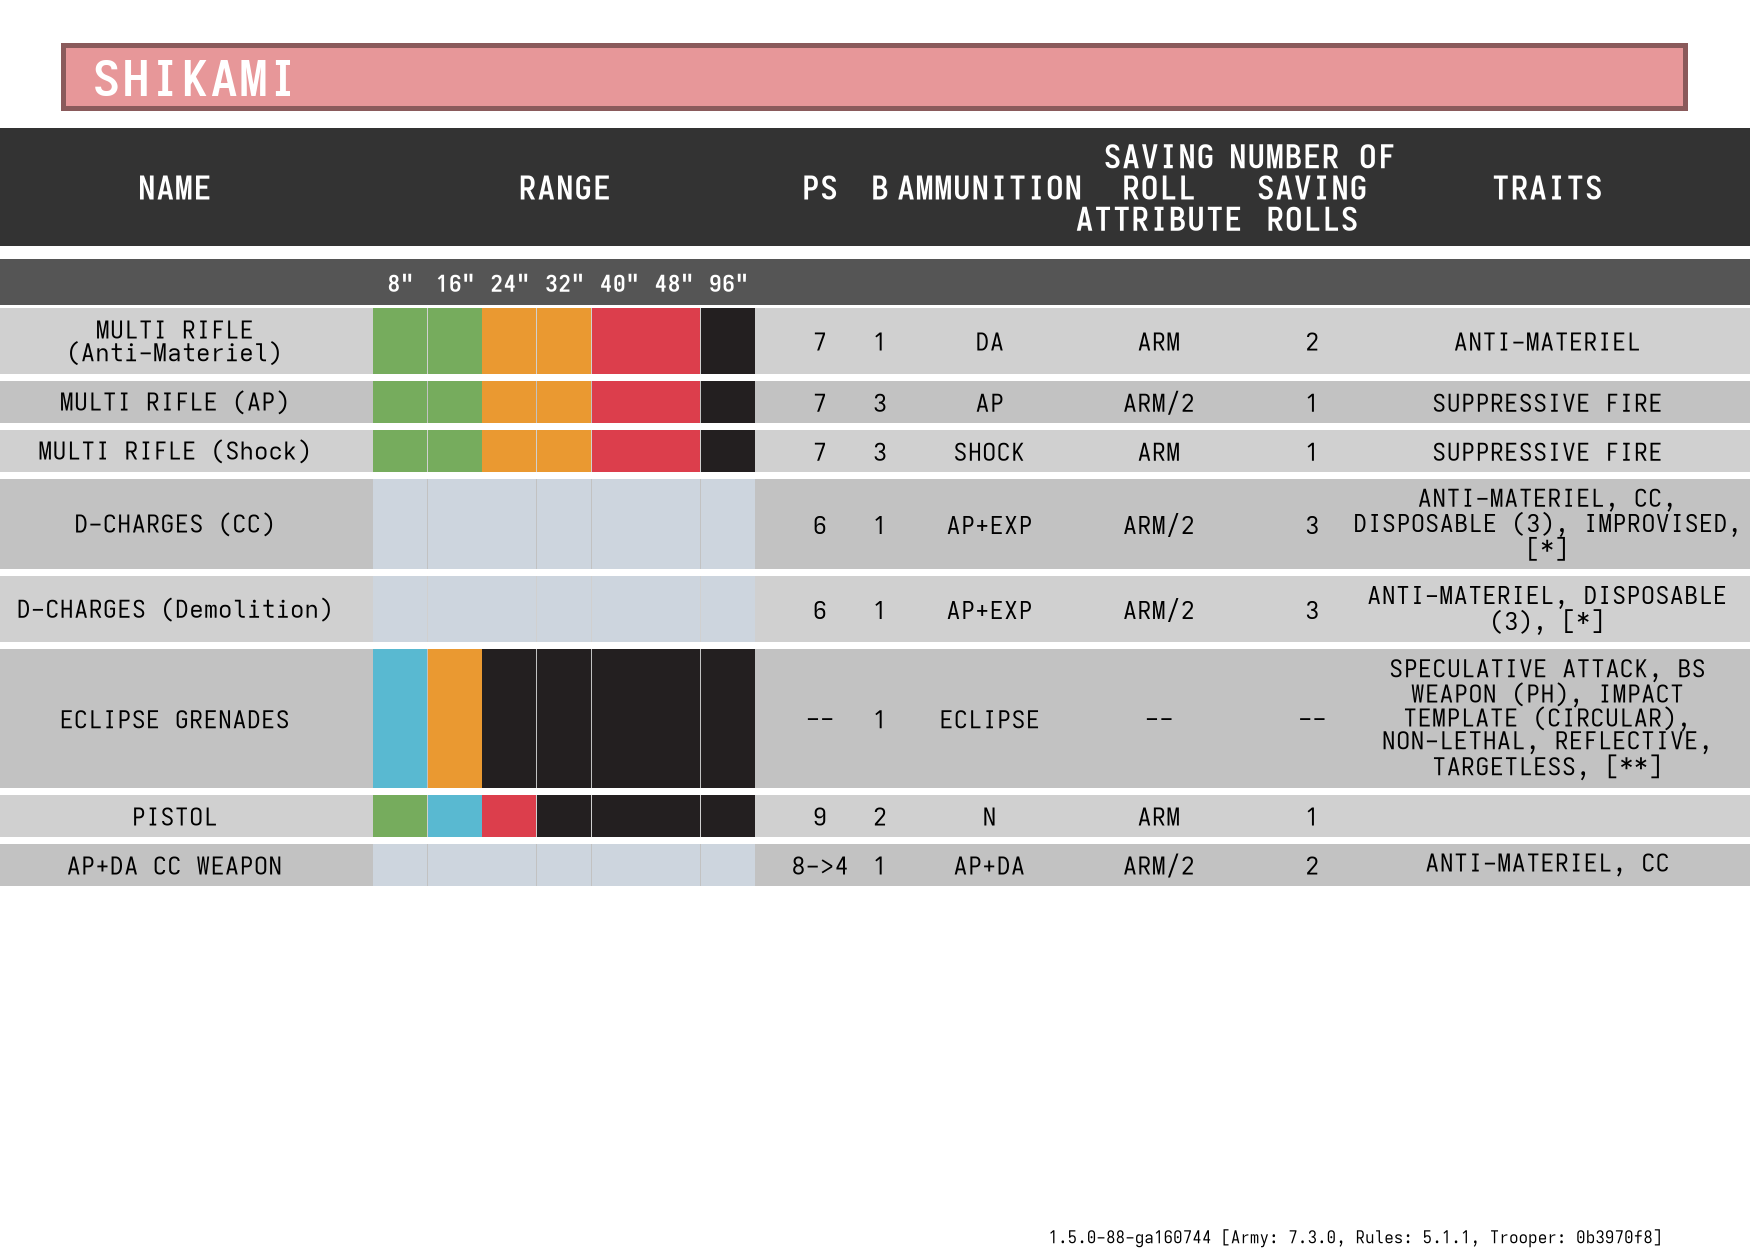
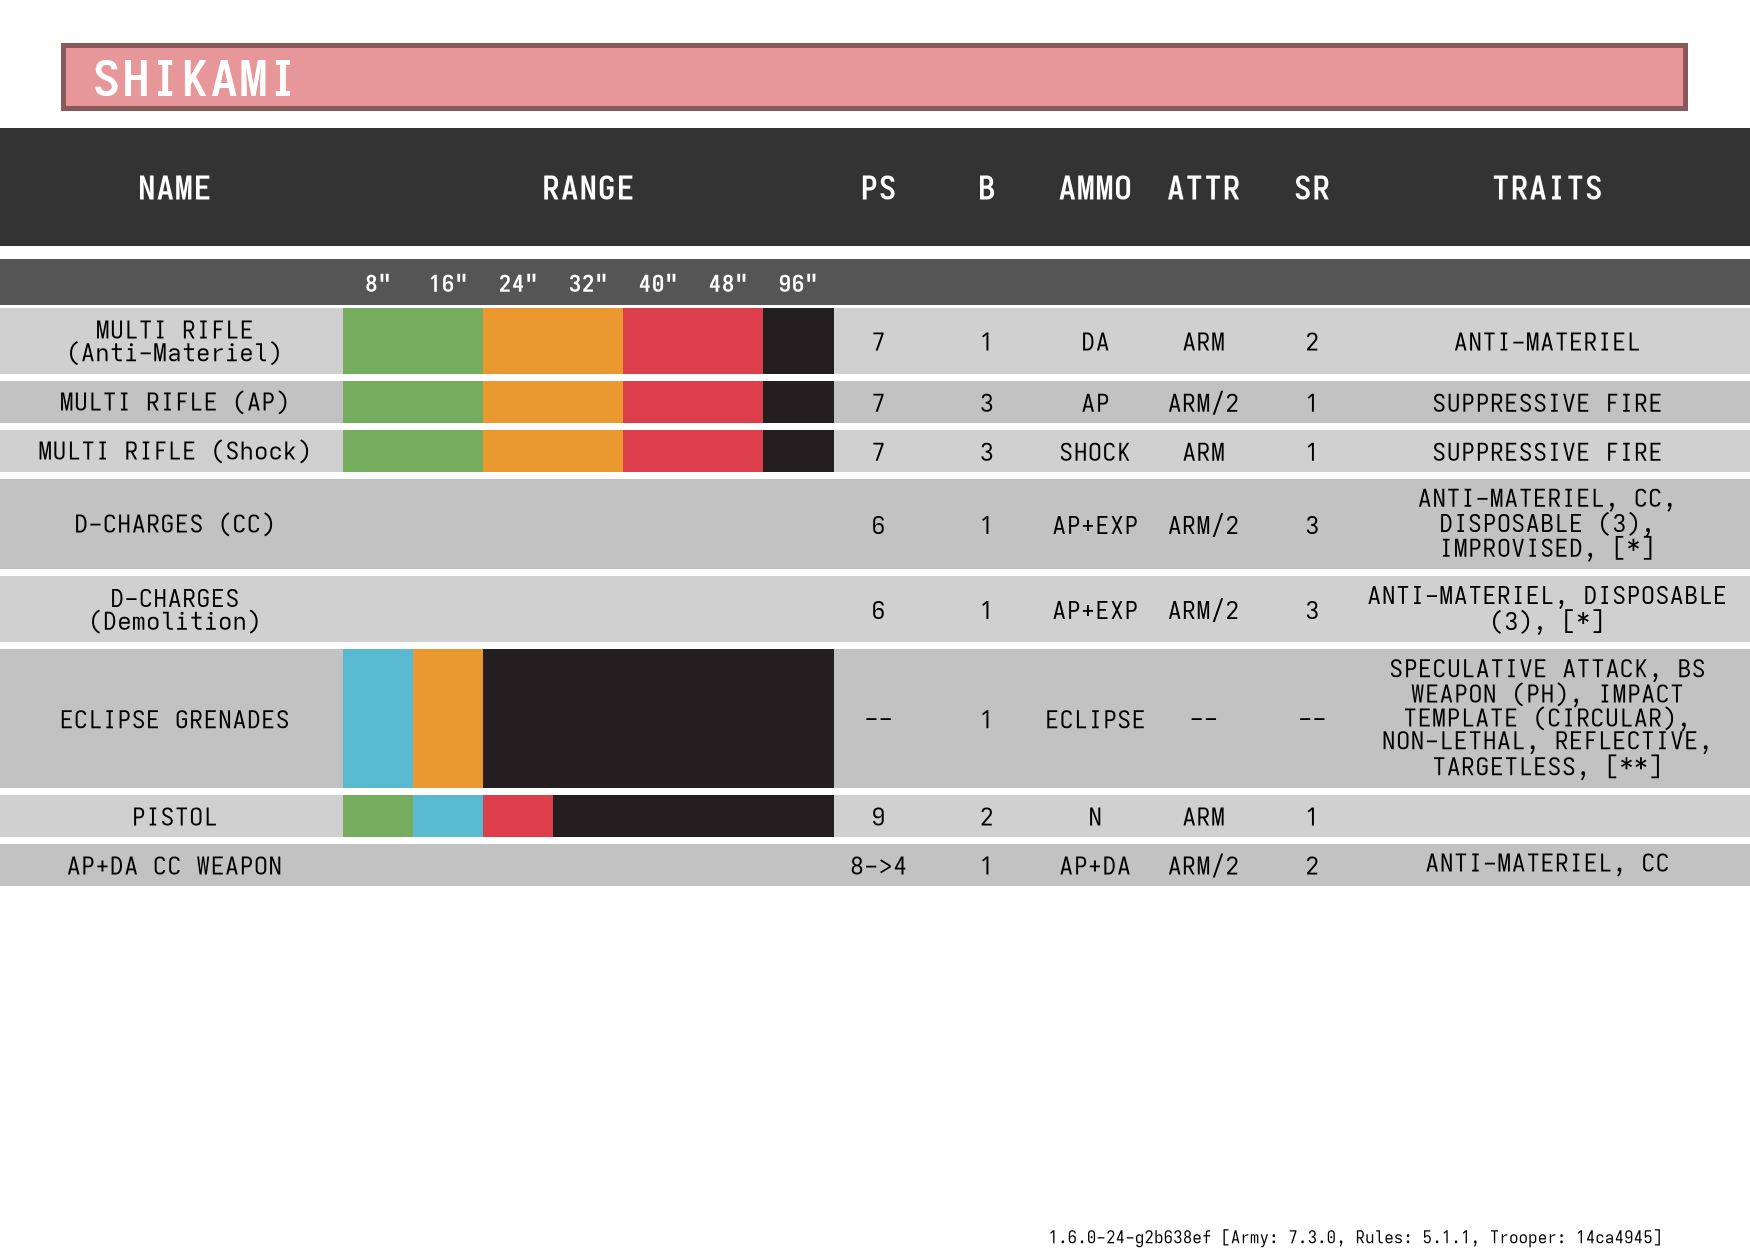
update README and assets

diff --git a/README.md b/README.md
@@ -1,10 +1,10 @@
 ## Troop cards
 
-| Inspiration                                           | Mine (stat page)                 | Mine (charts page)               |
-|-------------------------------------------------------|----------------------------------|----------------------------------|
-| ![](assets/4fb8339e-3d5d-4f70-9e3e-3f76bb449dd4.jpeg) | ![](assets/panoceania-orc.1.png) | ![](assets/panoceania-orc.2.png) |
-| ![](assets/c10788ac-cffd-4494-8f02-d7eaafcc30fa.jpeg) | ![](assets/jsa-shikami.1.1.png)  | ![](assets/jsa-shikami.1.2.png)  |
-| ![](assets/e3948ce6-e52d-4d15-be89-131ea8f03858.jpeg) |                                  |                                  |
+| Inspiration                                           | Mine (stat page)                   | Mine (charts page)                 |
+|-------------------------------------------------------|------------------------------------|------------------------------------|
+| ![](assets/4fb8339e-3d5d-4f70-9e3e-3f76bb449dd4.jpeg) | ![](assets/panoceania-orc.1.1.png) | ![](assets/panoceania-orc.1.2.png) |
+| ![](assets/c10788ac-cffd-4494-8f02-d7eaafcc30fa.jpeg) | ![](assets/jsa-shikami.1.1.png)    | ![](assets/jsa-shikami.1.2.png)    |
+| ![](assets/e3948ce6-e52d-4d15-be89-131ea8f03858.jpeg) |                                    |                                    |
 
 > Sources:
 > - [_New Infinity N5 Fireteam Rules; All You Need To Know! | Infinity N5 Week_ from _OnTableTop_][video-1]
